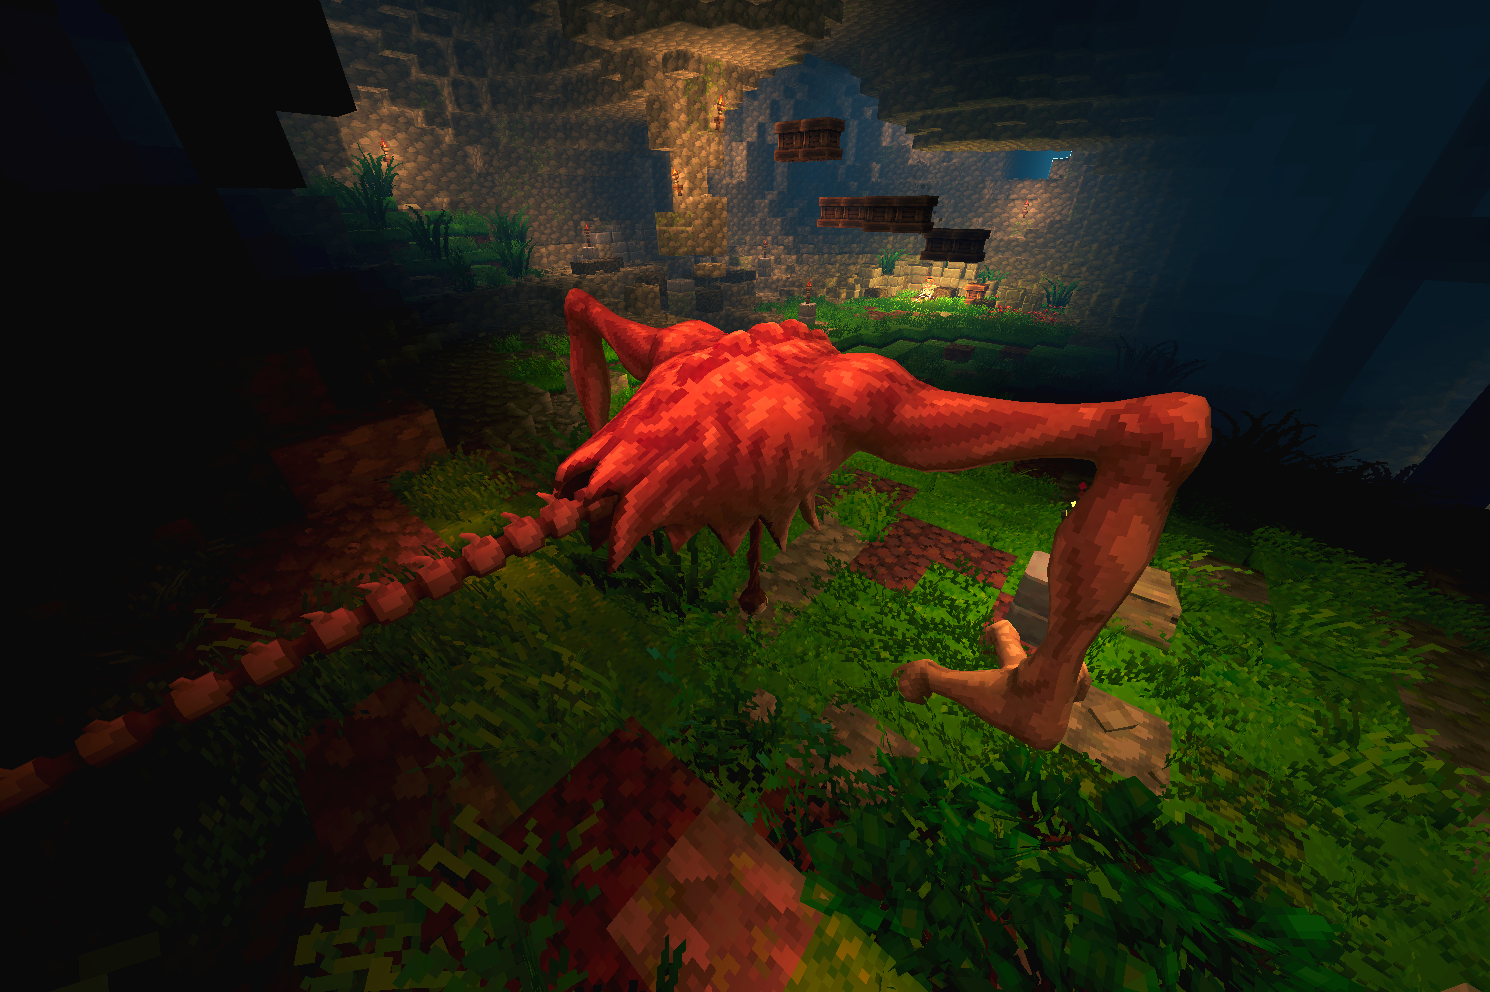
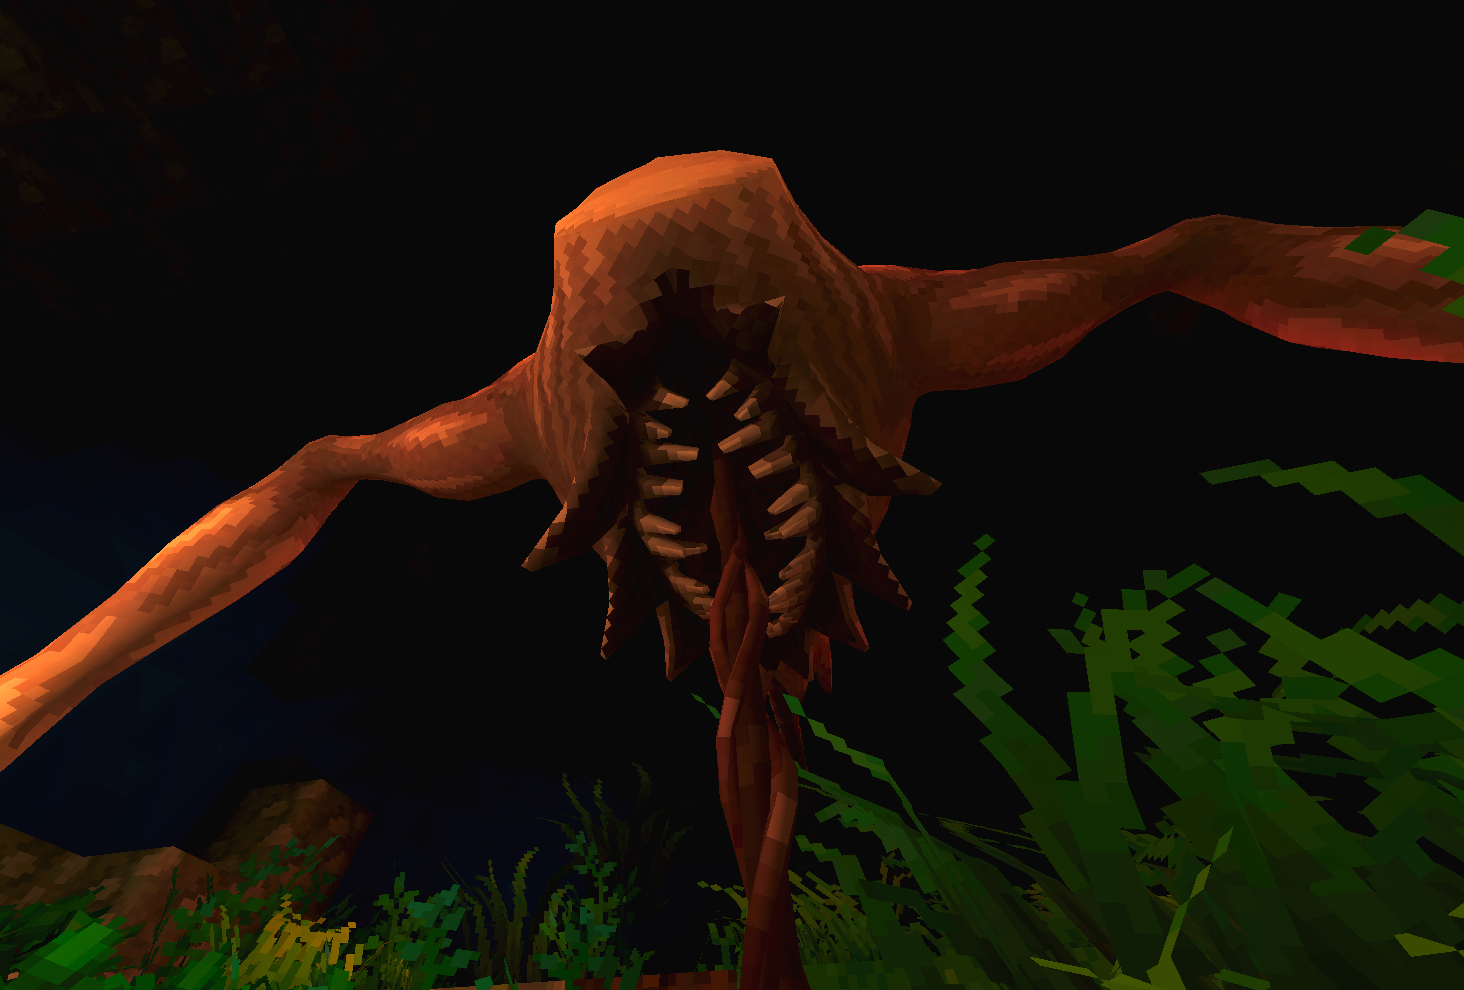
creature001 topo add

diff --git a/script.js b/script.js
@@ -10,7 +10,7 @@ document.addEventListener('DOMContentLoaded', function () {
     overlay.appendChild(closeIcon);
 
     const projectConfig = {
-        project58: { imageCount: 9, videoCount: 0, title: "Creature_001" },
+        project58: { imageCount: 10, videoCount: 0, title: "Creature_001" },
         project57: { imageCount: 1, videoCount: 0, title: "Little Lion" },
         project56: { imageCount: 1, videoCount: 0, title: "Little Panther" },
         project55: { imageCount: 1, videoCount: 0, title: "Little Beast" },
